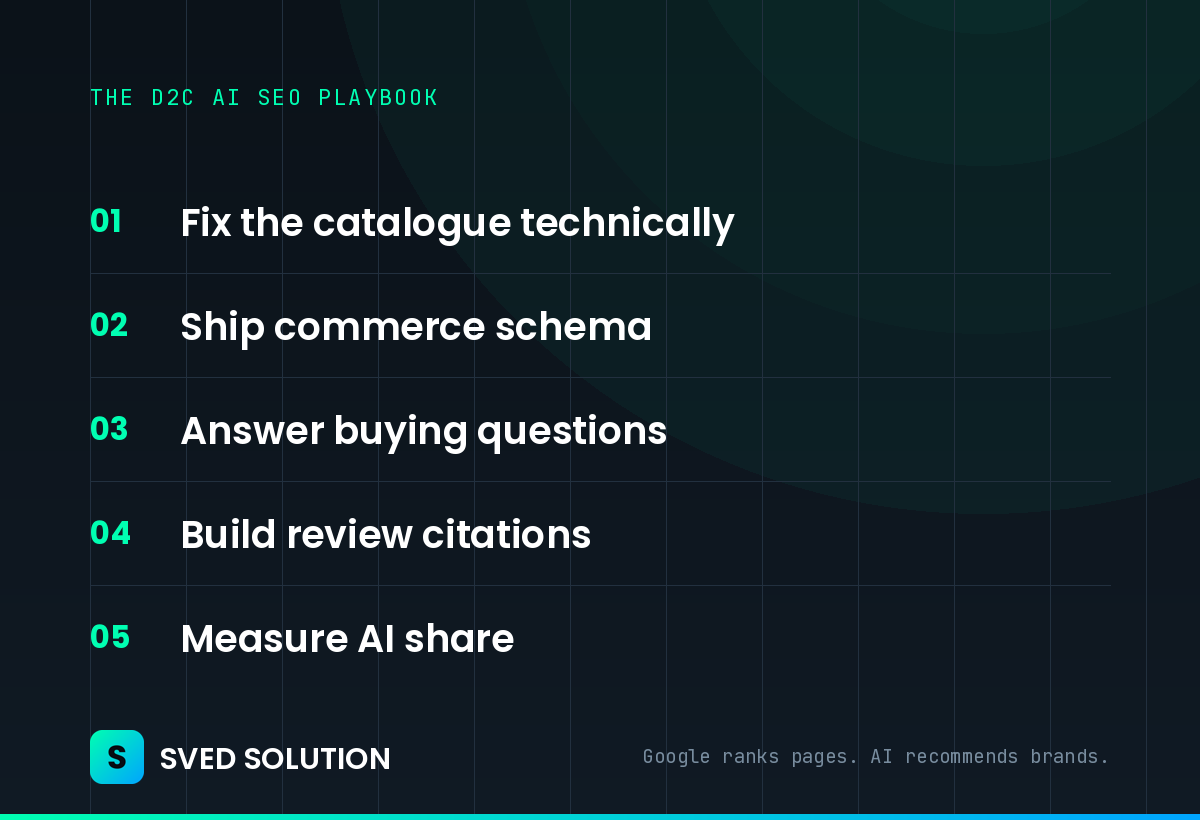
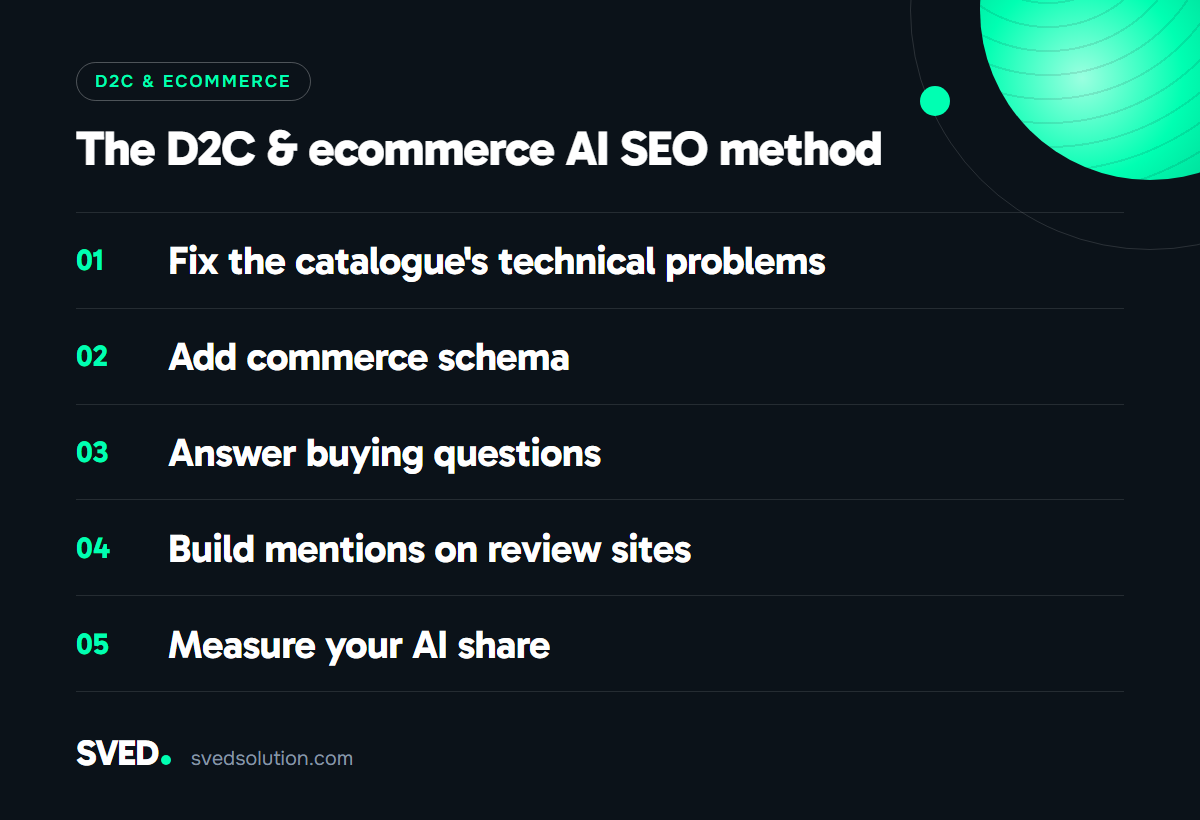
Redraw the 16 in-post graphics in the new design, in plain wording
Same file names and sizes. Steps on each card now use the wording of the
rewritten posts; image descriptions and captions updated to match. The broken
tick glyphs on the AEO card are gone. Generator kept in brand/share-image/.

diff --git a/brand/share-image/make_inline.py b/brand/share-image/make_inline.py
@@ -1,0 +1,210 @@
+"""Render the in-post graphics (numbered lists, price table, quote) in the site's design.
+
+Usage: python brand/share-image/make_inline.py <output dir> [file name ...]
+Needs: pip install playwright && playwright install chromium
+
+Each entry in CARDS is keyed by the file name the post already points at, so
+re-rendering replaces the image without touching the post. `alt` and `caption`
+are the texts the post's <figure> line should carry; keep them in step with the
+wording on the card.
+"""
+import os
+import sys
+
+from playwright.sync_api import sync_playwright
+
+REPO = os.path.dirname(os.path.dirname(os.path.dirname(os.path.abspath(__file__))))
+FONTS = "file:///" + os.path.join(REPO, "assets", "fonts").replace("\\", "/").replace(" ", "%20")
+
+
+def steps(tag, title, rows, caption, height=820, lead=None):
+    # Lower-case each step's first letter for the sentence, but leave acronyms such as "AI" alone.
+    low = lambda r: (r[0].lower() + r[1:]) if len(r) > 1 and r[1].islower() else r
+    alt = (lead or title) + ": " + ", ".join(low(r) for r in rows)
+    return dict(kind="list", tag=tag, title=title, rows=rows, height=height, alt=alt, caption=caption)
+
+
+CARDS = {
+    "blog-ai-citation-building-inline.png": steps(
+        "AI citation building", "Five steps to getting mentioned by AI",
+        ["Settle your identity", "List the sites AI trusts in your industry", "Study where competitors are mentioned",
+         "Make your people known", "Measure your share of mentions"],
+        "AI citation building, in five steps.", lead="AI citation building in five steps"),
+    "blog-d2c-ecommerce-ai-seo-inline.png": steps(
+        "D2C & ecommerce", "The D2C & ecommerce AI SEO method",
+        ["Fix the catalogue's technical problems", "Add commerce schema", "Answer buying questions",
+         "Build mentions on review sites", "Measure your AI share"],
+        "The D2C & ecommerce AI SEO method."),
+    "blog-ai-seo-web3-inline.png": steps(
+        "Web3", "The AI SEO for Web3 method",
+        ["Make docs readable to AI", "Settle your identity", "Answer-first protocol content", "Add schema",
+         "Get trusted mentions"],
+        "The AI SEO for Web3 method."),
+    "blog-ai-seo-pricing-inline.png": dict(
+        kind="prices", tag="AI SEO cost · 2026", title="Typical monthly fees (USD)", height=760,
+        rows=[("Starter", "$500 – $2,000"), ("Growth", "$2,000 – $5,000"), ("Professional", "$5,000 – $12,000"),
+              ("Enterprise", "$12,000 – $25,000+")],
+        alt="AI SEO cost by tier in 2026: Starter $500-2,000, Growth $2,000-5,000, Professional $5,000-12,000, Enterprise $12,000-25,000+ per month",
+        caption="Typical 2026 AI SEO monthly fees (USD)."),
+    "blog-edtech-seo-india-inline.png": steps(
+        "Education & EdTech", "The EdTech SEO method",
+        ["Answer the questions learners ask", "Add education schema", "Become the authority in each subject",
+         "Win local and campus searches", "Get mentioned on trusted sources"],
+        "The education & EdTech SEO method."),
+    "blog-fertility-clinic-checklist-inline.png": steps(
+        "Fertility clinics", "The fertility clinic SEO checklist",
+        ["Name your clinicians and their credentials", "Have content medically reviewed", "Local SEO for each location",
+         "Medical schema (MedicalClinic)", "Mentions on trusted health sites"],
+        "The fertility clinic SEO checklist."),
+    "blog-geo-agency-india-inline.png": steps(
+        "GEO", "How we run GEO",
+        ["Review before recommending", "Make your identity clear", "Build agreement across trusted sites",
+         "Publish content AI can find and quote", "Report the number"],
+        "How we run GEO."),
+    "blog-google-ai-overviews-inline.png": steps(
+        "Google AI Overviews", "Five steps to appear in AI Overviews",
+        ["Rank the page first", "Answer first, in 40 to 60 words", "Make it easy to lift", "Add the schema",
+         "Make your brand clear and backed up"],
+        "Five steps to AI Overview visibility.", lead="Five steps to appear in Google AI Overviews"),
+    "blog-it-app-dev-seo-inline.png": steps(
+        "IT & app development", "The IT & app development SEO method",
+        ["Build service and technology pages", "Show proof with case studies", "Win directories and reviews",
+         "Answer buyer questions", "Fix the technical base"],
+        "The IT & app development SEO method."),
+    "blog-saas-ai-seo-inline.png": steps(
+        "SaaS & AI products", "The SaaS SEO method",
+        ["Start with the pages closest to a sale", "Build the comparison pages", "Make docs easy for AI to read",
+         "Win on review sites", "Add SaaS schema markup"],
+        "The SaaS & AI product SEO method."),
+    "blog-schema-for-ai-inline.png": dict(
+        kind="list", tag="Schema markup", title="Schema types that matter for AI search", height=820,
+        rows=[("FAQPage & QAPage", "questions and answers"), ("Article", "who wrote it, and when"),
+              ("Organization + sameAs", "who you are, and your profiles"),
+              ("Product / Offer / Review", "price, stock and ratings"), ("HowTo", "step-by-step instructions")],
+        alt="Schema that matters for AI: FAQPage and QAPage, Article, Organization with sameAs, Product Offer Review, HowTo",
+        caption="The schema types that matter most for AI search."),
+    "blog-seo-for-fertility-ivf-clinics-inline.png": dict(
+        kind="quote", tag="Fertility search", height=675,
+        quote="Patients now ask ChatGPT which clinic to trust, before they ever reach Google.",
+        sub="Why fertility clinics need to be visible in AI answers, not only on Google.",
+        alt="Patients now ask ChatGPT which fertility clinic to trust before they ever reach Google",
+        caption="Patients now ask AI tools before they reach Google."),
+    "blog-web3-crypto-seo-inline.png": steps(
+        "Web3 & crypto", "The Web3 SEO method",
+        ["Build trust in who you are", "Explain the protocol, answer first", "Get mentioned on trusted sources",
+         "Clean technical SEO and schema", "Adapt for communities worldwide"],
+        "The Web3 & crypto SEO method."),
+    "blog-what-is-aeo-inline.png": dict(
+        kind="list", tag="AEO", title="Answer engine optimization, in four moves", height=760,
+        rows=["Answer first, in 40 to 60 words", "Build the page around questions", "Add FAQ and QAPage schema",
+              "Win the answer spot and keep it"],
+        alt="The AEO checklist: answer first in 40 to 60 words, build the page around questions, add FAQ and QAPage schema, win the answer spot and keep it",
+        caption="Answer Engine Optimization, in four moves."),
+    "blog-what-is-geo-inline.png": dict(
+        kind="list", tag="GEO", title="The four levers of GEO", height=760,
+        rows=["A clear brand identity", "Consistent mentions on other sites", "Content that is easy to find and quote",
+              "Freshness"],
+        alt="The four levers of Generative Engine Optimization: a clear brand identity, consistent mentions on other sites, content that is easy to find and quote, and freshness",
+        caption="GEO works through four levers that support each other."),
+    "blog-what-is-llm-seo-inline.png": steps(
+        "LLM SEO", "What LLM SEO covers",
+        ["Server-side rendering", "AI crawler access", "llms.txt at the root", "Clear passages", "Schema markup"],
+        "What LLM SEO covers."),
+}
+
+CSS = """
+@font-face { font-family: 'Gabarito'; font-weight: 400 800; src: url('%(fonts)s/gabarito-var.woff2') format('woff2'); }
+@font-face { font-family: 'Onest'; font-weight: 400 600; src: url('%(fonts)s/onest-var.woff2') format('woff2'); }
+* { box-sizing: border-box; margin: 0; }
+body { width: 1200px; height: %(height)spx; overflow: hidden; position: relative; background: #0B1219;
+       font-family: 'Onest', sans-serif; color: #fff; -webkit-font-smoothing: antialiased; }
+.ring { position: absolute; width: 480px; height: 480px; right: -190px; top: -230px; border-radius: 50%%;
+        border: 1.5px solid rgba(255,255,255,.13); }
+.orb { position: absolute; width: 340px; height: 340px; right: -120px; top: -160px; border-radius: 50%%;
+       background: radial-gradient(circle at 30%% 70%%, #9BFFE0 0%%, #00FFB2 30%%, #00C48A 62%%, #04795C 100%%); }
+.orb::after { content: ""; position: absolute; inset: 0; border-radius: 50%%;
+       background: repeating-radial-gradient(circle at 20%% 20%%, rgba(11,18,25,0) 0 22px, rgba(11,18,25,.10) 22px 24px); }
+.moon { position: absolute; width: 30px; height: 30px; border-radius: 50%%; background: #00FFB2; right: 250px; top: 86px; }
+.head { position: absolute; left: 76px; top: 62px; width: 820px; }
+.tag { display: inline-block; padding: 8px 18px; border: 1.5px solid rgba(255,255,255,.28); border-radius: 999px;
+       font-weight: 600; font-size: 17px; letter-spacing: .12em; text-transform: uppercase; color: #00FFB2; }
+h1 { margin-top: 22px; font-family: 'Gabarito', sans-serif; font-weight: 800; font-size: 50px; line-height: 1.05;
+     letter-spacing: -.02em; }
+.rows { position: absolute; left: 76px; right: 76px; top: 212px; bottom: 128px; display: flex; flex-direction: column; }
+.row { flex: 1; display: flex; align-items: center; border-top: 1.5px solid rgba(255,255,255,.11); min-height: 0; }
+.row:last-child { border-bottom: 1.5px solid rgba(255,255,255,.11); }
+.n { flex: none; width: 92px; font-family: 'Gabarito', sans-serif; font-weight: 700; font-size: 30px; color: #00FFB2; }
+.l { font-family: 'Gabarito', sans-serif; font-weight: 700; font-size: 40px; letter-spacing: -.015em; white-space: nowrap; }
+.d { margin-left: auto; padding-left: 28px; font-size: 25px; color: #9FAEBC; white-space: nowrap; }
+.v { margin-left: auto; font-family: 'Gabarito', sans-serif; font-weight: 800; font-size: 44px; color: #00FFB2; white-space: nowrap; }
+.prices .l { font-size: 44px; }
+.q { position: absolute; left: 76px; top: 150px; width: 900px; }
+.q b { display: block; font-family: 'Gabarito', sans-serif; font-weight: 800; font-size: 150px; line-height: .6; color: #00FFB2; height: 62px; }
+.q p { font-family: 'Gabarito', sans-serif; font-weight: 800; font-size: 66px; line-height: 1.06; letter-spacing: -.02em; text-wrap: balance; }
+.q span { display: block; margin-top: 28px; font-size: 27px; line-height: 1.35; color: #B9C6D2; max-width: 760px; }
+.foot { position: absolute; left: 76px; right: 76px; bottom: 46px; display: flex; align-items: baseline; }
+.mark { font-family: 'Gabarito', sans-serif; font-weight: 800; font-size: 36px; letter-spacing: -.03em; }
+.mark i { display: inline-block; width: 10px; height: 10px; border-radius: 50%%; background: #00FFB2; margin-left: 3px; }
+.site { margin-left: 20px; font-size: 20px; color: #8696A5; }
+"""
+
+FIT = """<script>
+document.fonts.ready.then(() => {
+  // Keep every row on one line: shrink the label size for the whole card if any row is too wide.
+  const rows = [...document.querySelectorAll('.row')];
+  let s = parseFloat(getComputedStyle(document.querySelector('.l') || document.body).fontSize) || 40;
+  const over = () => rows.some(r => r.scrollWidth > r.clientWidth + 1);
+  while (rows.length && over() && s > 26) { s -= 1; document.querySelectorAll('.l').forEach(e => e.style.fontSize = s + 'px'); }
+  // The title stays on one line so it never runs into the first row.
+  const h = document.querySelector('h1'); let t = 50;
+  if (h) { h.style.whiteSpace = 'nowrap'; while (h.scrollWidth > 820 && t > 34) { t -= 1; h.style.fontSize = t + 'px'; } }
+  document.body.dataset.ready = String(s) + ' title ' + t + (over() || (h && h.scrollWidth > 820) ? ' OVERFLOW' : '');
+});
+</script>"""
+
+
+def esc(t):
+    return t.replace("&", "&amp;").replace("<", "&lt;")
+
+
+def page(card):
+    foot = '<div class="foot"><span class="mark">SVED<i></i></span><span class="site">svedsolution.com</span></div>'
+    deco = '<div class="ring"></div><div class="orb"></div><div class="moon"></div>'
+    css = "<style>" + CSS % {"fonts": FONTS, "height": card["height"]} + "</style>"
+    if card["kind"] == "quote":
+        body = (f'<div class="head"><span class="tag">{esc(card["tag"])}</span></div>'
+                f'<div class="q"><b>&ldquo;</b><p>{esc(card["quote"])}</p><span>{esc(card["sub"])}</span></div>')
+    else:
+        rows = []
+        for i, r in enumerate(card["rows"], 1):
+            if card["kind"] == "prices":
+                rows.append(f'<div class="row"><span class="l">{esc(r[0])}</span><span class="v">{esc(r[1])}</span></div>')
+            elif isinstance(r, tuple):
+                rows.append(f'<div class="row"><span class="n">{i:02d}</span><span class="l">{esc(r[0])}</span>'
+                            f'<span class="d">{esc(r[1])}</span></div>')
+            else:
+                rows.append(f'<div class="row"><span class="n">{i:02d}</span><span class="l">{esc(r)}</span></div>')
+        body = (f'<div class="head"><span class="tag">{esc(card["tag"])}</span><h1>{esc(card["title"])}</h1></div>'
+                f'<div class="rows {card["kind"]}">{"".join(rows)}</div>')
+    return f'<!doctype html><html><head><meta charset="utf-8">{css}</head><body>{deco}{body}{foot}{FIT}</body></html>'
+
+
+if __name__ == "__main__":
+    out = sys.argv[1]
+    names = sys.argv[2:] or list(CARDS)
+    os.makedirs(out, exist_ok=True)
+    tmp = os.path.join(out, "_card.html")
+    with sync_playwright() as p:
+        browser = p.chromium.launch()
+        for name in names:
+            card = CARDS[name]
+            pg = browser.new_page(viewport={"width": 1200, "height": card["height"]}, device_scale_factor=1)
+            with open(tmp, "w", encoding="utf-8") as f:
+                f.write(page(card))
+            pg.goto("file:///" + tmp.replace("\\", "/").replace(" ", "%20"))
+            pg.wait_for_function("document.body.dataset.ready")
+            pg.screenshot(path=os.path.join(out, name))
+            print(f'{name}: {card["height"]}px high, label size {pg.evaluate("document.body.dataset.ready")}')
+            pg.close()
+        browser.close()
+    os.remove(tmp)

diff --git a/content/blog/what-is-generative-engine-optimization.md b/content/blog/what-is-generative-engine-optimization.md
@@ -33,7 +33,7 @@ The three overlap and are often sold together. [Answer Engine Optimization](/ser
 
 ## The four levers of GEO
 
-<figure style="margin:1.5rem 0"><img src="/assets/blog-what-is-geo-inline.png" alt="The four levers of Generative Engine Optimization: entity authority, citation consensus, retrieval-ready content, and freshness" width="1200" height="760" style="width:100%;height:auto;border-radius:12px;display:block" loading="lazy"><figcaption style="font-size:.85rem;color:var(--text-faint);margin-top:.7rem;text-align:center">GEO works through four reinforcing levers.</figcaption></figure>
+<figure style="margin:1.5rem 0"><img src="/assets/blog-what-is-geo-inline.png" alt="The four levers of Generative Engine Optimization: a clear brand identity, consistent mentions on other sites, content that is easy to find and quote, and freshness" width="1200" height="760" style="width:100%;height:auto;border-radius:12px;display:block" loading="lazy"><figcaption style="font-size:.85rem;color:var(--text-faint);margin-top:.7rem;text-align:center">GEO works through four levers that support each other.</figcaption></figure>
 
 1. **A clear brand identity (entity authority).** The AI tool must recognise your brand as one clear, consistent business: one official name and one description, backed up across the web. This is the foundation, and most sites muddle their own identity before anyone else does. It is the core of [AI citation & entity building](/services/ai-citation-entity-building/).
 2. **Consistent mentions on other sites (citation consensus).** When an AI tool sees your brand described the same way across sources it already trusts, it treats that repetition as agreement. This off-site signal is the strongest driver of whether you get named, and the one classic SEO barely touches.

diff --git a/content/blog/seo-for-fertility-ivf-clinics.md b/content/blog/seo-for-fertility-ivf-clinics.md
@@ -35,7 +35,7 @@ As a combined **IVF SEO agency** and **AI visibility agency for fertility**, we 
 
 ## The shift: patients ask AI before they reach Google
 
-<figure style="margin:2rem 0"><img src="/assets/blog-seo-for-fertility-ivf-clinics-inline.png" alt="Patients now ask ChatGPT which fertility clinic to trust before they ever reach Google" width="1200" height="675" style="width:100%;height:auto;border-radius:12px;display:block" loading="lazy"><figcaption style="font-size:.85rem;color:var(--text-faint);margin-top:.7rem;text-align:center">The fertility research journey has moved upstream into AI answers.</figcaption></figure>
+<figure style="margin:2rem 0"><img src="/assets/blog-seo-for-fertility-ivf-clinics-inline.png" alt="Patients now ask ChatGPT which fertility clinic to trust before they ever reach Google" width="1200" height="675" style="width:100%;height:auto;border-radius:12px;display:block" loading="lazy"><figcaption style="font-size:.85rem;color:var(--text-faint);margin-top:.7rem;text-align:center">Patients now ask AI tools before they reach Google.</figcaption></figure>
 
 Ask ChatGPT or Perplexity to recommend a fertility clinic. It names a handful of clinics and a handful of sources. There is no position one, only the clinics that get named. Because fertility is a health topic, AI tools lean even harder on clinics with clear credentials, the same description everywhere and backing from other sites. That is what a **fertility AI SEO agency** builds. It is also why being missing from AI answers is now the most expensive gap in fertility marketing. (For how it works, see [how to rank in ChatGPT](/insights/how-to-rank-in-chatgpt/) and [GEO vs SEO](/insights/geo-vs-seo/).)
 

diff --git a/content/blog/ai-citation-building.md b/content/blog/ai-citation-building.md
@@ -41,7 +41,7 @@ Ten relevant, consistent mentions in sources an AI tool already reads do more fo
 
 ## How to build AI citations
 
-<figure style="margin:1.5rem 0"><img src="/assets/blog-ai-citation-building-inline.png" alt="AI citation building in five steps: resolve the entity, build the citation stack, reverse-engineer competitors, establish the people, measure citation share" width="1200" height="820" style="width:100%;height:auto;border-radius:12px;display:block" loading="lazy"><figcaption style="font-size:.85rem;color:var(--text-faint);margin-top:.7rem;text-align:center">AI citation building, in five steps.</figcaption></figure>
+<figure style="margin:1.5rem 0"><img src="/assets/blog-ai-citation-building-inline.png" alt="AI citation building in five steps: settle your identity, list the sites AI trusts in your industry, study where competitors are mentioned, make your people known, measure your share of mentions" width="1200" height="820" style="width:100%;height:auto;border-radius:12px;display:block" loading="lazy"><figcaption style="font-size:.85rem;color:var(--text-faint);margin-top:.7rem;text-align:center">AI citation building, in five steps.</figcaption></figure>
 
 1. **Settle your identity.** One official brand name, description and category, shown in exactly the same way on your site, your profiles and your `Organization` schema (code that tells machines who you are).
 2. **List the outside sites AI trusts in your industry.** The right sources differ by industry: review databases, credentialed directories, marketplaces, trade press. We work out yours from what AI tools really name in your niche. A generic list will not do.

diff --git a/content/blog/how-to-appear-in-google-ai-overviews.md b/content/blog/how-to-appear-in-google-ai-overviews.md
@@ -34,7 +34,7 @@ AI Overviews draw heavily on pages that already rank well. So classic SEO gets y
 
 ## How to appear in Google AI Overviews: the method
 
-<figure style="margin:1.5rem 0"><img src="/assets/blog-google-ai-overviews-inline.png" alt="Five steps to appear in Google AI Overviews: rank the page, answer in the first 100 words, question-shaped structure, FAQ and Article schema, build the brand entity" width="1200" height="820" style="width:100%;height:auto;border-radius:12px;display:block" loading="lazy"><figcaption style="font-size:.85rem;color:var(--text-faint);margin-top:.7rem;text-align:center">Five steps to AI Overview visibility.</figcaption></figure>
+<figure style="margin:1.5rem 0"><img src="/assets/blog-google-ai-overviews-inline.png" alt="Five steps to appear in Google AI Overviews: rank the page first, answer first, in 40 to 60 words, make it easy to lift, add the schema, make your brand clear and backed up" width="1200" height="820" style="width:100%;height:auto;border-radius:12px;display:block" loading="lazy"><figcaption style="font-size:.85rem;color:var(--text-faint);margin-top:.7rem;text-align:center">Five steps to AI Overview visibility.</figcaption></figure>
 
 1. **Rank the page first.** AI Overviews mostly draw on page-one results. So the basics come first: relevance, [technical SEO](/services/technical-seo/) and authority.
 2. **Answer first.** Open with a direct answer of 40 to 60 words to the exact search, before any background. This is the passage Google lifts. This practice is called [Answer Engine Optimization](/services/answer-engine-optimization/).

diff --git a/content/blog/web3-crypto-seo-agency.md b/content/blog/web3-crypto-seo-agency.md
@@ -39,7 +39,7 @@ Ask an AI tool to recommend a wallet, chain, DeFi platform or launchpad. It name
 
 ## The Web3 SEO method
 
-<figure style="margin:1.5rem 0"><img src="/assets/blog-web3-crypto-seo-inline.png" alt="The Web3 SEO playbook: build entity trust, answer-first protocol docs, trusted-source citations, clean technical and schema, localise for communities" width="1200" height="820" style="width:100%;height:auto;border-radius:12px;display:block" loading="lazy"><figcaption style="font-size:.85rem;color:var(--text-faint);margin-top:.7rem;text-align:center">The Web3 & crypto SEO playbook.</figcaption></figure>
+<figure style="margin:1.5rem 0"><img src="/assets/blog-web3-crypto-seo-inline.png" alt="The Web3 SEO method: build trust in who you are, explain the protocol, answer first, get mentioned on trusted sources, clean technical SEO and schema, adapt for communities worldwide" width="1200" height="820" style="width:100%;height:auto;border-radius:12px;display:block" loading="lazy"><figcaption style="font-size:.85rem;color:var(--text-faint);margin-top:.7rem;text-align:center">The Web3 & crypto SEO method.</figcaption></figure>
 
 1. **Build trust in who you are.** Use the same project name and description on your site, block explorers, listings, GitHub, docs and the crypto press. AI and Google read that agreement as a sign you are legitimate.
 2. **Explain the protocol, answer first.** Open pages with a direct answer to real questions: how staking works, fees, the security model, tokenomics. Then both users and AI tools can take a clean answer.

diff --git a/content/blog/ai-seo-for-d2c-ecommerce-brands.md b/content/blog/ai-seo-for-d2c-ecommerce-brands.md
@@ -37,7 +37,7 @@ Ask an AI tool for the best running shoe, skincare routine or coffee maker. It n
 
 ## The D2C & ecommerce AI SEO method
 
-<figure style="margin:1.5rem 0"><img src="/assets/blog-d2c-ecommerce-ai-seo-inline.png" alt="The D2C AI SEO playbook: fix the catalogue, ship commerce schema, answer buying questions, build review citations, measure AI share" width="1200" height="820" style="width:100%;height:auto;border-radius:12px;display:block" loading="lazy"><figcaption style="font-size:.85rem;color:var(--text-faint);margin-top:.7rem;text-align:center">The D2C & ecommerce AI SEO playbook.</figcaption></figure>
+<figure style="margin:1.5rem 0"><img src="/assets/blog-d2c-ecommerce-ai-seo-inline.png" alt="The D2C & ecommerce AI SEO method: fix the catalogue's technical problems, add commerce schema, answer buying questions, build mentions on review sites, measure your AI share" width="1200" height="820" style="width:100%;height:auto;border-radius:12px;display:block" loading="lazy"><figcaption style="font-size:.85rem;color:var(--text-faint);margin-top:.7rem;text-align:center">The D2C & ecommerce AI SEO method.</figcaption></figure>
 
 1. **Fix the catalogue's technical problems.** Control filter pages and product variants. Remove low-value pages from Google's index. Make product content load fast and arrive ready in the page's HTML (server-rendered).
 2. **Add commerce schema.** `Product`, `Offer`, `Review` and `FAQPage` markup, so Google and AI tools understand your price, availability and rating.

diff --git a/content/blog/education-edtech-seo-india.md b/content/blog/education-edtech-seo-india.md
@@ -37,7 +37,7 @@ Ask an AI tool to recommend a data-science course, an MBA or a coding bootcamp. 
 
 ## The EdTech SEO method
 
-<figure style="margin:1.5rem 0"><img src="/assets/blog-edtech-seo-india-inline.png" alt="The EdTech SEO playbook: answer learner questions, ship education schema, build topical authority, win local and campus search, earn trusted citations" width="1200" height="820" style="width:100%;height:auto;border-radius:12px;display:block" loading="lazy"><figcaption style="font-size:.85rem;color:var(--text-faint);margin-top:.7rem;text-align:center">The education & EdTech SEO playbook.</figcaption></figure>
+<figure style="margin:1.5rem 0"><img src="/assets/blog-edtech-seo-india-inline.png" alt="The EdTech SEO method: answer the questions learners ask, add education schema, become the authority in each subject, win local and campus searches, get mentioned on trusted sources" width="1200" height="820" style="width:100%;height:auto;border-radius:12px;display:block" loading="lazy"><figcaption style="font-size:.85rem;color:var(--text-faint);margin-top:.7rem;text-align:center">The education & EdTech SEO method.</figcaption></figure>
 
 1. **Answer the questions learners really ask.** Course comparisons, fees, eligibility, placement rates, career outcomes. Answer them directly in the first 100 words of each page.
 2. **Add education schema.** `Course`, `EducationalOccupationalProgram` and `FAQPage` markup (code that labels what is on a page), so Google and AI understand your programs.

diff --git a/content/blog/seo-for-it-services-app-development.md b/content/blog/seo-for-it-services-app-development.md
@@ -37,7 +37,7 @@ Ask an AI tool for the best app development or IT services firm for a particular
 
 ## The IT & app development SEO method
 
-<figure style="margin:1.5rem 0"><img src="/assets/blog-it-app-dev-seo-inline.png" alt="IT and app development SEO playbook: service and technology pages, ship proof, win directories and reviews, answer buyer questions, fix technical foundation" width="1200" height="820" style="width:100%;height:auto;border-radius:12px;display:block" loading="lazy"><figcaption style="font-size:.85rem;color:var(--text-faint);margin-top:.7rem;text-align:center">The IT & app development SEO playbook.</figcaption></figure>
+<figure style="margin:1.5rem 0"><img src="/assets/blog-it-app-dev-seo-inline.png" alt="The IT & app development SEO method: build service and technology pages, show proof with case studies, win directories and reviews, answer buyer questions, fix the technical base" width="1200" height="820" style="width:100%;height:auto;border-radius:12px;display:block" loading="lazy"><figcaption style="font-size:.85rem;color:var(--text-faint);margin-top:.7rem;text-align:center">The IT & app development SEO method.</figcaption></figure>
 
 1. **Build service and technology pages.** One page for each service and each technology (React, Flutter, .NET, cloud), aimed at the searches real buyers make.
 2. **Show proof.** Case studies with real results, plus Review/Organization schema (code that labels your reviews and company details for machines).

diff --git a/content/blog/what-is-answer-engine-optimization.md b/content/blog/what-is-answer-engine-optimization.md
@@ -36,7 +36,7 @@ AEO gives the fastest feedback of the three. The same work that makes a page eas
 
 ## How Answer Engine Optimization works
 
-<figure style="margin:1.5rem 0"><img src="/assets/blog-what-is-aeo-inline.png" alt="The AEO checklist: answer first, question-shaped headings, FAQ and QAPage schema, and snippet and AI-answer capture" width="1200" height="760" style="width:100%;height:auto;border-radius:12px;display:block" loading="lazy"><figcaption style="font-size:.85rem;color:var(--text-faint);margin-top:.7rem;text-align:center">Answer Engine Optimization, in four moves.</figcaption></figure>
+<figure style="margin:1.5rem 0"><img src="/assets/blog-what-is-aeo-inline.png" alt="The AEO checklist: answer first in 40 to 60 words, build the page around questions, add FAQ and QAPage schema, win the answer spot and keep it" width="1200" height="760" style="width:100%;height:auto;border-radius:12px;display:block" loading="lazy"><figcaption style="font-size:.85rem;color:var(--text-faint);margin-top:.7rem;text-align:center">Answer Engine Optimization, in four moves.</figcaption></figure>
 
 1. **Answer first.** Open the page with a direct answer of 40 to 60 words to the exact question the page targets, before any story or background. This is the passage a snippet or AI answer takes.
 2. **Build the page around questions.** Use real questions as H2 headings. Keep paragraphs short, with one idea each. Add tables or numbered steps that a machine can pull out cleanly.

diff --git a/content/blog/generative-engine-optimization-agency-india.md b/content/blog/generative-engine-optimization-agency-india.md
@@ -35,7 +35,7 @@ If you searched for a **generative engine optimization agency in India**, you wa
 
 ## How we run GEO
 
-<figure style="margin:1.5rem 0"><img src="/assets/blog-geo-agency-india-inline.png" alt="How we run GEO: diagnose before prescribing, resolve your entity, build citation consensus, retrieval-ready content, report the number" width="1200" height="820" style="width:100%;height:auto;border-radius:12px;display:block" loading="lazy"><figcaption style="font-size:.85rem;color:var(--text-faint);margin-top:.7rem;text-align:center">How we run GEO.</figcaption></figure>
+<figure style="margin:1.5rem 0"><img src="/assets/blog-geo-agency-india-inline.png" alt="How we run GEO: review before recommending, make your identity clear, build agreement across trusted sites, publish content AI can find and quote, report the number" width="1200" height="820" style="width:100%;height:auto;border-radius:12px;display:block" loading="lazy"><figcaption style="font-size:.85rem;color:var(--text-faint);margin-top:.7rem;text-align:center">How we run GEO.</figcaption></figure>
 
 1. **Review before recommending.** No monthly fee is quoted before a review. We map which questions your buyers ask AI and which brands it names.
 2. **Make your identity clear.** One consistent brand identity across your site, profiles and schema markup (code that labels your details for machines).

diff --git a/content/blog/saas-ai-product-seo.md b/content/blog/saas-ai-product-seo.md
@@ -37,7 +37,7 @@ Ask a generative engine (an AI tool such as ChatGPT) for the best CRM, analytics
 
 ## The SaaS SEO method
 
-<figure style="margin:1.5rem 0"><img src="/assets/blog-saas-ai-seo-inline.png" alt="The SaaS SEO playbook: sequence the inverted funnel, build the comparison system, optimize docs for retrieval, win review platforms, ship SaaS schema" width="1200" height="820" style="width:100%;height:auto;border-radius:12px;display:block" loading="lazy"><figcaption style="font-size:.85rem;color:var(--text-faint);margin-top:.7rem;text-align:center">The SaaS & AI product SEO playbook.</figcaption></figure>
+<figure style="margin:1.5rem 0"><img src="/assets/blog-saas-ai-seo-inline.png" alt="The SaaS SEO method: start with the pages closest to a sale, build the comparison pages, make docs easy for AI to read, win on review sites, add SaaS schema markup" width="1200" height="820" style="width:100%;height:auto;border-radius:12px;display:block" loading="lazy"><figcaption style="font-size:.85rem;color:var(--text-faint);margin-top:.7rem;text-align:center">The SaaS & AI product SEO method.</figcaption></figure>
 
 1. **Start at the bottom of the funnel.** Publish the pages closest to a sale first, where revenue is nearest.
 2. **Build the comparison pages.** Versus, alternatives and best-of pages, written fairly so they get quoted.
